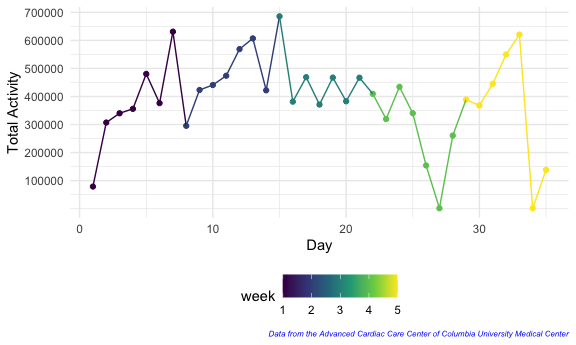
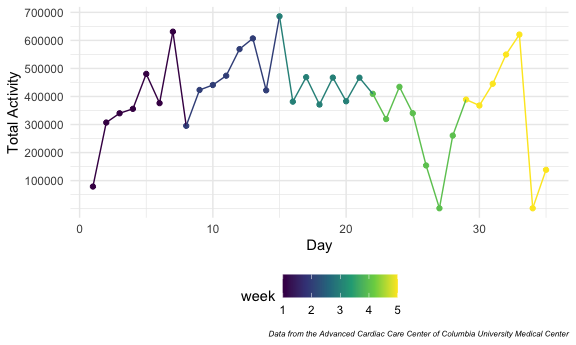
Update Descrption

Changed region(s): [[0.4688, 0.9565, 1.0, 0.9855]]

diff --git a/P8105_HW3_ys3295.md b/P8105_HW3_ys3295.md
@@ -30,7 +30,7 @@ data from local files, and reasonable naming structures for your files.
 data("instacart")
 ```
 
-This dataset contains 1384617 rows and … columns.
+This dataset contains 1384617 rows and 15 columns.
 
 Observations are the level of items in orders by user. There are user /
 order variables – user ID, order ID, order day, and order hour. There
@@ -158,12 +158,17 @@ accel_data =
 
     ## See spec(...) for full column specifications.
 
-There is 50400 rows and 6 columns in this dataset. The variables
-contains : *week: from 1 to 5 *day\_id: from 1 to 35 *day: Monday to
-Sunday *weekday\_type:(weekday or weekend): *minute(the minute of the
-day): *activity: the activity counts for each minute
+There are 50400 rows and 6 columns in this dataset while 50400
+observations in total.
 
-There is 50400 observation.
+The dataset includes the following variables:
+
+  - week: from 1 to 5
+  - day\_id: from 1 to 35
+  - day: Monday to Sunday
+  - weekday\_type: weekday or weekend
+  - minute: the minute of the day
+  - activity: the activity counts for each minute
 
 -----
 
@@ -218,9 +223,10 @@ total_activity_a_day %>%
     ) + 
   labs(
     x = "Day",
-    y = "Total activity",
+    y = "Total Activity",
     caption = "Data from the Advanced Cardiac Care Center of Columbia University Medical Center"
-  )
+  )+
+  theme (plot.caption = element_text(hjust = 1, size = 6, face = "italic"))
 ```
 
 <img src="P8105_HW3_ys3295_files/figure-gfm/unnamed-chunk-7-1.png" width="80%" />
@@ -243,9 +249,10 @@ accel_data %>%
   geom_point()+
   geom_line() +
   labs(
-    x = "Hour of each day",
+    x = "Hour of Each Day",
     y = "Activity",
-    caption = "Data from the Advanced Cardiac Care Center of Columbia University Medical Center" )
+    caption = "Data from the Advanced Cardiac Care Center of Columbia University Medical Center" )+
+   theme(plot.caption = element_text(hjust = 1, size = 6, face = "italic"))
 ```
 
 <img src="P8105_HW3_ys3295_files/figure-gfm/unnamed-chunk-8-1.png" width="80%" />
@@ -255,14 +262,14 @@ and was inactive during 0am to 8am everyday.
 
 ### Problem 3
 
-Load ny\_noaa dataset.
+Load NY NOAA data.
 
 ``` r
 library(p8105.datasets)
 data("ny_noaa")
 ```
 
-Clean and data and create separate variables for year, month, and day.
+Clean the data and create separate variables for year, month, and day.
 
 ``` r
 weather_df= ny_noaa %>% 
@@ -280,14 +287,56 @@ weather_df= ny_noaa %>%
 )
 ```
 
-Next, check the most commonly observed values for snowball.
+NY NOAA data contains five core variables for all New York state weather
+station form January 1, 1981 through December 31, 2010. There are
+2595176 rows and 9 columns in this dataset while 2595176 observations in
+total.
+
+The dataset contains variables:
+
+  - id: Weather station ID
+  - date: Date of observation
+  - prcp: Precipitation (tenths of mm)
+  - snow: Snowfall (mm)
+  - snwd: Snow depth (mm)
+  - tmax: Maximum temperature (tenths of degrees C)
+  - tmin: Minimum temperature (tenths of degrees C)
+
+Description:
+
+  - The average precipitation is 2.98 tenths of mm with the standard
+    deviation of 7.82 tenths of mm. The maximum and minimum
+    precipitation during the period is 2286 tenths of mm and 0 tenths of
+    mm respectively.
+
+  - The average snowfall is 4.99 mm with the standard deviation of 27.22
+    mm. The maximum and minimum snowfall during the period is 10160 mm
+    and -13 mm respectively.
+
+  - The average maximum temperature is 13.98 tenths of mm with the
+    standard deviation of 11.14 tenths of mm. The range of between
+    maximum temperature during the period is between 60 tenths of mm and
+    -38.9 tenths of mm.
+
+  - The average minimum temperature is 3.03 tenths of mm with the
+    standard deviation of 10.4 tenths of mm. The range of minimum
+    temperature during the period is between 60 tenths of mm and -59.4
+    tenths of mm.
+
+  - There are 1134420 , 1134358 and 381221 missing values in the
+    variable of minimum and maximum temperature, and snowfall
+    respectively.
+
+-----
+
+Next, check the most commonly observed values for snowfall.
 
 ``` r
 snow = weather_df$snow 
 snow_mode= names(table(snow))[table(snow) == max(table(snow))]  
 ```
 
-For snowfall, the most commonly observed values is 0.
+For snowfall, the most commonly observed values is 0 mm.
 
 -----
 
@@ -313,8 +362,9 @@ theme(axis.title = element_text(size = 8),
     ## Warning: Removed 5970 rows containing missing values (geom_point).
 
 <img src="P8105_HW3_ys3295_files/figure-gfm/unnamed-chunk-12-1.png" width="80%" />
-This plots shows an increasing trend in the average maximum temperature
-in January and July across the years, which could be an indicator of
+
+The plot shows increasing trend in the average maximum temperature in
+January and in July across the years, which could be an indicator of
 global warming. Also, there are several outliers in the January plot in
 1982, 2005 that show much lower average maximum temperature to the other
 years while some outliers in 2004 has much higher average maximum
@@ -334,8 +384,10 @@ tmax_min_p = weather_df %>%
   drop_na(tmin,tmax)%>%
   ggplot(aes(x = tmin, y = tmax)) +
   geom_hex()+
+  labs(x = "Minimum Temperature (tenths of degrees C)", y = " Maximum Temperature (tenths of degrees C)")+
   theme (legend.position = "right",
-    legend.title = element_text(size=10)
+    legend.title = element_text(size = 10),
+    axis.title = element_text(size = 5)
   )
 
 snowfall_df = weather_df %>%
@@ -345,7 +397,10 @@ snowfall_df = weather_df %>%
   mutate(year = as.character(year)) %>% 
   ggplot(aes(x= year, y= snow)) +
   geom_boxplot()+
-  theme(axis.text.x = element_text (angle = 90, vjust = 0.5, hjust = 1))
+  labs(x = "Year", y = "Snowfall (mm)") +
+  theme(axis.text.x = element_text (angle = 90, vjust = 0.5, hjust = 1),
+    axis.title = element_text(size = 8))
+      
 tmax_min_p / snowfall_df 
 ```
 
